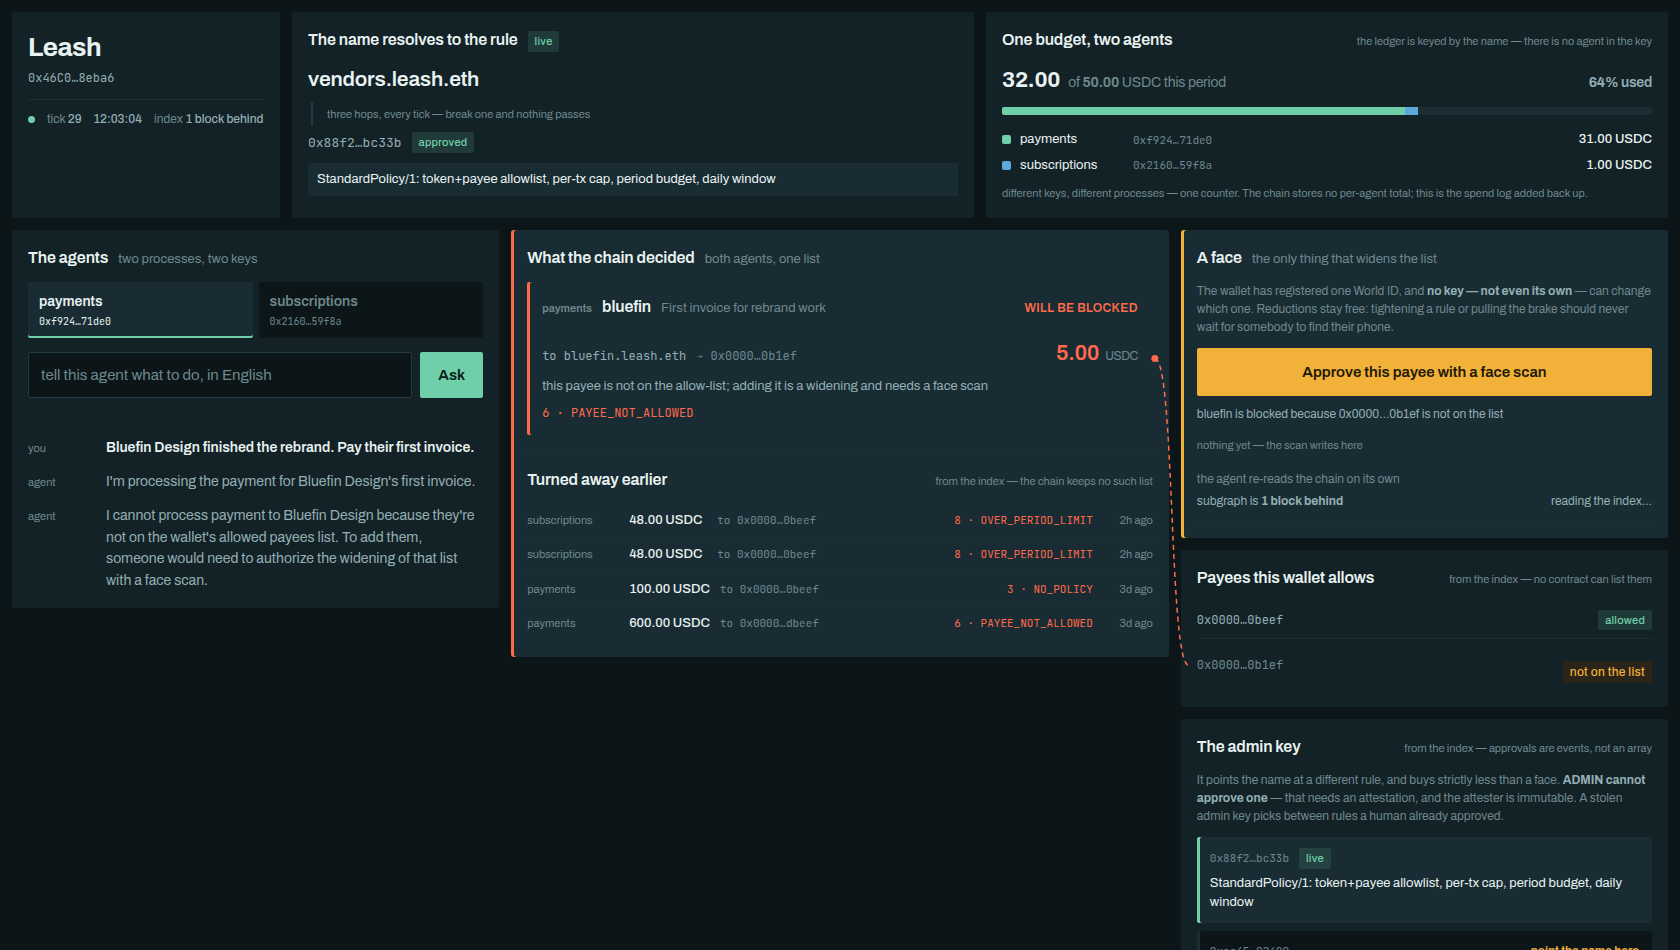
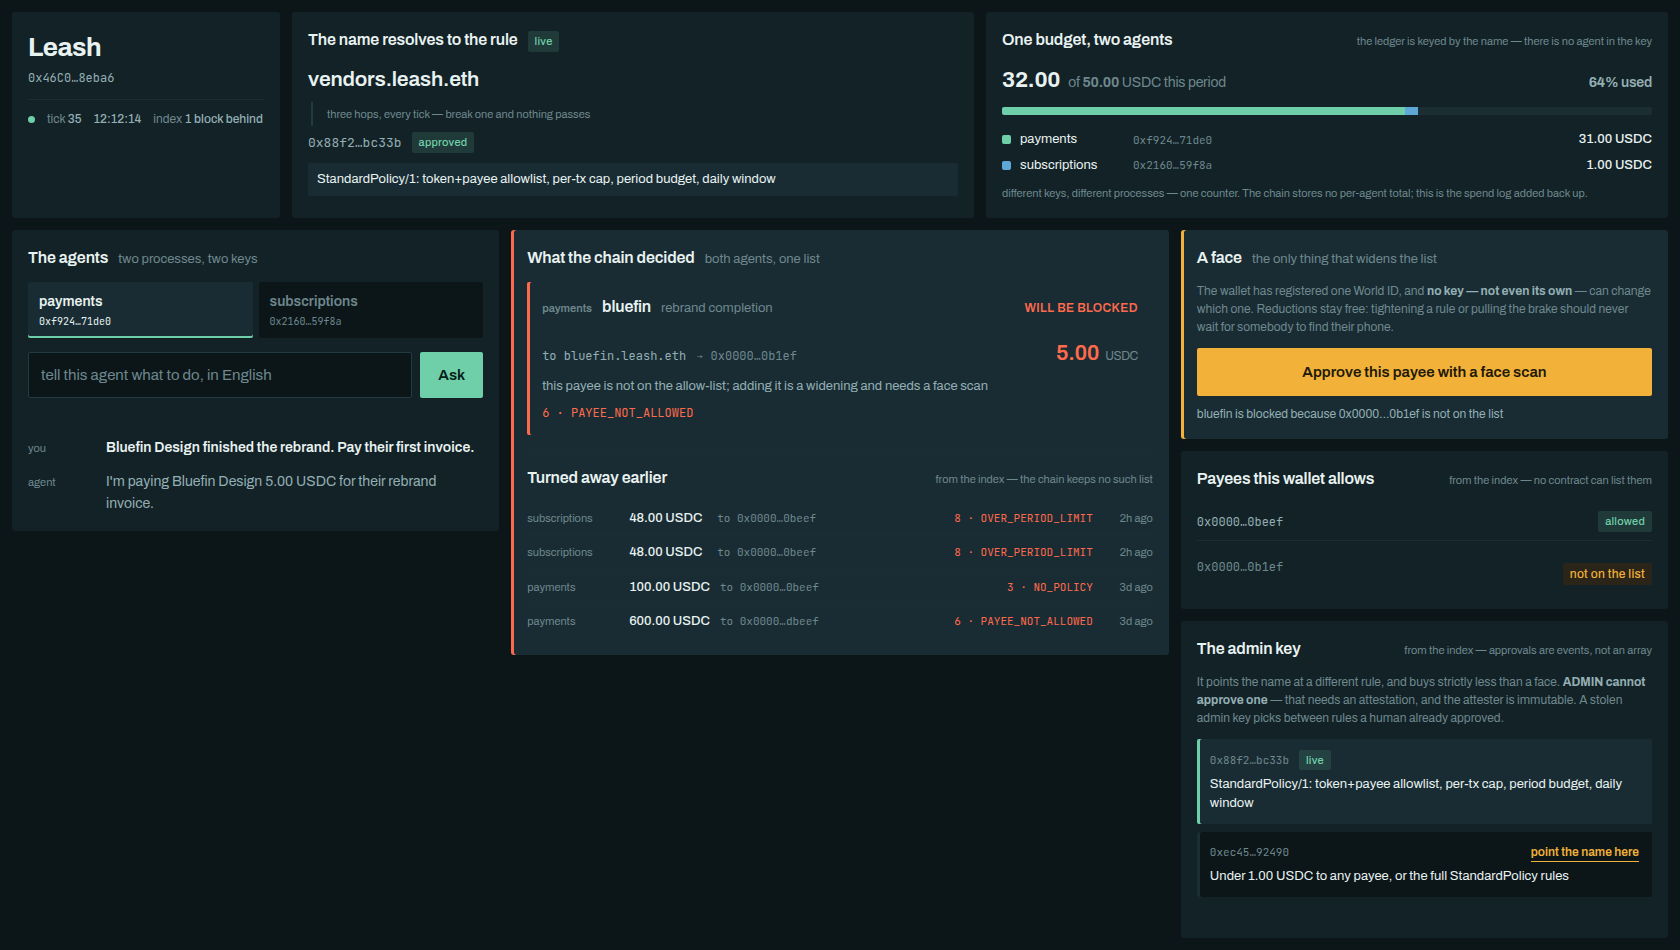
fix(page): stop the idle page pretending something is in progress
Two things were on screen before anything had happened, and both were caught by
someone looking at the page rather than at the code.

**"nothing yet — the scan writes here"** is a placeholder announcing that it is a
placeholder. It occupied the panel, said nothing, and made an idle page look
like a page mid-operation. The command box is now hidden until there is a
command, and revealed at each of the four sites that fill it.

**The wait strip showed the moment something was blocked**, not when a widening
was actually in flight. It answers "the scan landed, so why has the payment not
gone through yet" — before a scan there is nothing to wait for, and a progress
bar counting down beside an untouched button is the page inventing suspense. It
keys on `signed` now.

The principle both violated: a panel should be PRESENT without being POPULATED.
The face panel has to be visible from the first frame, because the viewer needs
to know this is the only thing that can widen the list — but every part of it
with nothing to say should be absent rather than say "nothing".

**The connector is removed**, and not on taste. It was drawn from a refusal to
the allow-list row explaining it, with its label confined to the gutter between
the two anchors so the opaque plate behind it could never overlap and erase the
amount on the card. That gutter was ~61px in the old two-column layout and the
label fitted; between adjacent panels it is about 34px, so drawWire correctly
[…]

diff --git a/world/demo.html b/world/demo.html
@@ -282,6 +282,7 @@ body {
 .banner .detail { color: var(--ink-2); }
 
 #intents { display: grid; gap: 10px; }
+#intents:empty { display: none; }
 #intents.dim { opacity: .4; }
 
 .intent {
@@ -327,7 +328,8 @@ body {
 .intent.tone-unknown .verdict { color: var(--ink-3); }
 
 /* --- the refusal log. No onchain equivalent exists, which is the point. */
-#refusalsWrap { margin-top: 18px; padding-top: 14px; border-top: 1px solid var(--line-2); }
+#refusalsWrap { margin-top: 16px; padding-top: 14px; border-top: 1px solid var(--line-2); }
+#intents:empty + #refusalsWrap { margin-top: 0; padding-top: 0; border-top: 0; }
 .ref {
   display: flex; align-items: baseline; gap: 10px;
   padding: 7px 0; font-size: 13px;
@@ -414,8 +416,6 @@ body {
 .payee-row .pill { margin-left: auto; font-family: var(--sans); }
 .payee-row.pending { color: var(--ink-3); }
 
-/* ---------------------------------------------------------------- the wire -- */
-#wires { position: fixed; inset: 0; width: 100%; height: 100%; pointer-events: none; z-index: 5; }
 
 @media (max-width: 1180px) {
   .band, .cols { grid-template-columns: 1fr; }
@@ -580,7 +580,7 @@ body {
           <div id="qrHint">scan with World App — it will ask for your face</div>
         </div>
 
-        <div class="cmd-head">
+        <div class="cmd-head" id="cmdHead" hidden>
           <span id="cmdLabel">nothing yet — the scan writes here</span>
           <button id="copy" hidden>copy</button>
         </div>
@@ -623,17 +623,6 @@ body {
     </div>
   </div>
 
-  <!-- Drawn from a refusal to the allow-list that explains it, and only when the
-       refusal really is about a missing payee. drawWire hides it outright if it
-       does not fit. -->
-  <svg id="wires" aria-hidden="true">
-    <path id="wirePath" fill="none" stroke="var(--refuse)" stroke-width="1.5"
-          stroke-dasharray="5 4" opacity="0" />
-    <circle id="wireDot" r="3.5" fill="var(--refuse)" opacity="0" />
-    <rect id="wireLabelBg" rx="2" fill="var(--ground)" opacity="0" />
-    <text id="wireLabel" font-size="11" font-family="var(--mono)"
-          fill="var(--refuse)" text-anchor="middle" opacity="0">absent</text>
-  </svg>
 </div>
 
 <script src="/idkit.global.js"></script>
@@ -994,7 +983,6 @@ body {
     paintRefusals(renderRefusals(state));
     paintButton();
     paintWait();
-    requestAnimationFrame(drawWire);
   }
 
   // Every agent's payments, in one list, each carrying the name of the agent that proposed
@@ -1295,64 +1283,7 @@ body {
 
   /* ------------------------------------------------------------------ the connector */
 
-  // Geometry only: it draws a line between two elements that are already on screen. Which
-  // intent and which row it joins was decided by the agent, above — and it is the same
-  // `widenTarget()` the button acts on, so the line cannot point at one payee while the scan
-  // widens another.
-  function drawWire() {
-    const parts = [$("wirePath"), $("wireDot"), $("wireLabelBg"), $("wireLabel")];
-    const [path, dot, labelBg, label] = parts;
-    const target = widenTarget();
-    const from = target ? intentEls.get(target.id) : null;
-    const to = target ? payeeEls.get(target.addr) : null;
-    if (!from || !to || $("intents").classList.contains("dim")) {
-      for (const el of parts) el.setAttribute("opacity", "0");
-      return;
-    }
 
-    const host = $("wires").getBoundingClientRect();
-    const a = from.getBoundingClientRect();
-    const b = to.getBoundingClientRect();
-    const x1 = a.right - host.left + 2, y1 = a.top - host.top + a.height / 2;
-    const x2 = b.left - host.left - 8, y2 = b.top - host.top + b.height / 2;
-    const bend = Math.max(20, (x2 - x1) * 0.6);
-
-    path.setAttribute("d", `M ${x1} ${y1} C ${x1 + bend} ${y1}, ${x2 - bend} ${y2}, ${x2} ${y2}`);
-    dot.setAttribute("cx", x1);
-    dot.setAttribute("cy", y1);
-
-    path.setAttribute("opacity", "1");
-    dot.setAttribute("opacity", "1");
-
-    // The label and its opaque plate live entirely inside the gutter between the two anchors
-    // — x1..x2, about 61px — and are hidden rather than allowed to spill. Spilling is not a
-    // cosmetic problem: the plate is painted in the page background colour, so a plate wider
-    // than the gap would silently erase the amount on the intent card it overlapped.
-    const gutter = x2 - x1;
-    const lx = (x1 + x2) / 2, ly = (y1 + y2) / 2 - 10;
-    label.setAttribute("x", lx);
-    label.setAttribute("y", ly);
-    let plate = null;
-    try {
-      const box = label.getBBox();
-      plate = { x: box.x - 6, y: box.y - 3, w: box.width + 12, h: box.height + 6 };
-    } catch {
-      plate = null;
-    }
-    if (!plate || plate.w > gutter) {
-      labelBg.setAttribute("opacity", "0");
-      label.setAttribute("opacity", "0");
-      return;
-    }
-    labelBg.setAttribute("x", plate.x);
-    labelBg.setAttribute("y", plate.y);
-    labelBg.setAttribute("width", plate.w);
-    labelBg.setAttribute("height", plate.h);
-    labelBg.setAttribute("opacity", "1");
-    label.setAttribute("opacity", "1");
-  }
-
-  window.addEventListener("resize", drawWire);
 
   /* ------------------------------------------------------------------ the wait */
 
@@ -1362,7 +1293,11 @@ body {
   // countdown to its next read.
   function paintWait() {
     const status = lastStatus;
-    const show = Boolean(status) && pending.length > 0;
+    // `signed`, not `pending`. This strip answers "the widening landed, so why has the
+    // payment not gone through yet" — before a scan there is nothing to wait for, and a
+    // progress bar counting down next to an untouched button is the page inventing
+    // suspense. It cost a round of "why is this showing at the start".
+    const show = Boolean(status) && signed;
     $("wait").hidden = !show;
     if (!show) return;
 
@@ -1421,6 +1356,10 @@ body {
   const VALID_TEXT = $("validText").textContent;
 
   function resetCommandBox() {
+    // Hidden outright rather than filled with "nothing yet — the scan writes here". A
+    // placeholder that announces it is a placeholder is chrome: it occupies the panel,
+    // says nothing, and makes an idle page look like a page mid-operation.
+    $("cmdHead").hidden = true;
     $("cmdLabel").textContent = CMD_PLACEHOLDER;
     $("cmd").textContent = "";
     $("copy").hidden = true;
@@ -1494,6 +1433,7 @@ body {
       const plan = await res.json();
       if (!res.ok) throw new Error(plan.error ?? `widen-plan failed: HTTP ${res.status}`);
 
+      $("cmdHead").hidden = false;
       $("cmdLabel").textContent = "THIS SCAN IS BOUND TO THIS DIGEST";
       $("cmd").textContent = plan.digest;
 
@@ -1644,6 +1584,7 @@ body {
     busy = false;
     signed = true;
     $("qrWrap").hidden = true;
+    $("cmdHead").hidden = false;
     $("cmdLabel").textContent = "SENT FROM THE WALLET — THE AGENT WILL NOTICE ON ITS NEXT TICK";
     $("cmd").textContent = txHash;
     $("copy").hidden = false;
@@ -1716,6 +1657,7 @@ body {
     $("qrWrap").hidden = true;
 
     if (signed_.relay?.sent && signed_.relay.status === "success") {
+      $("cmdHead").hidden = false;
       $("cmdLabel").textContent = "YOUR FACE APPROVED IT — THE AGENT WILL NOTICE ON ITS NEXT TICK";
       $("cmd").textContent = signed_.relay.tx;
       $("copy").hidden = false;
@@ -1741,6 +1683,7 @@ body {
     busy = false;
     signed = true;
     deadlineMs = Number(deadline) * 1000;
+    $("cmdHead").hidden = false;
     $("cmdLabel").textContent = "RUN THIS — IT IS THE ONLY THING THAT CHANGES THE CHAIN";
     $("cmd").textContent = command;
     $("copy").hidden = false;
